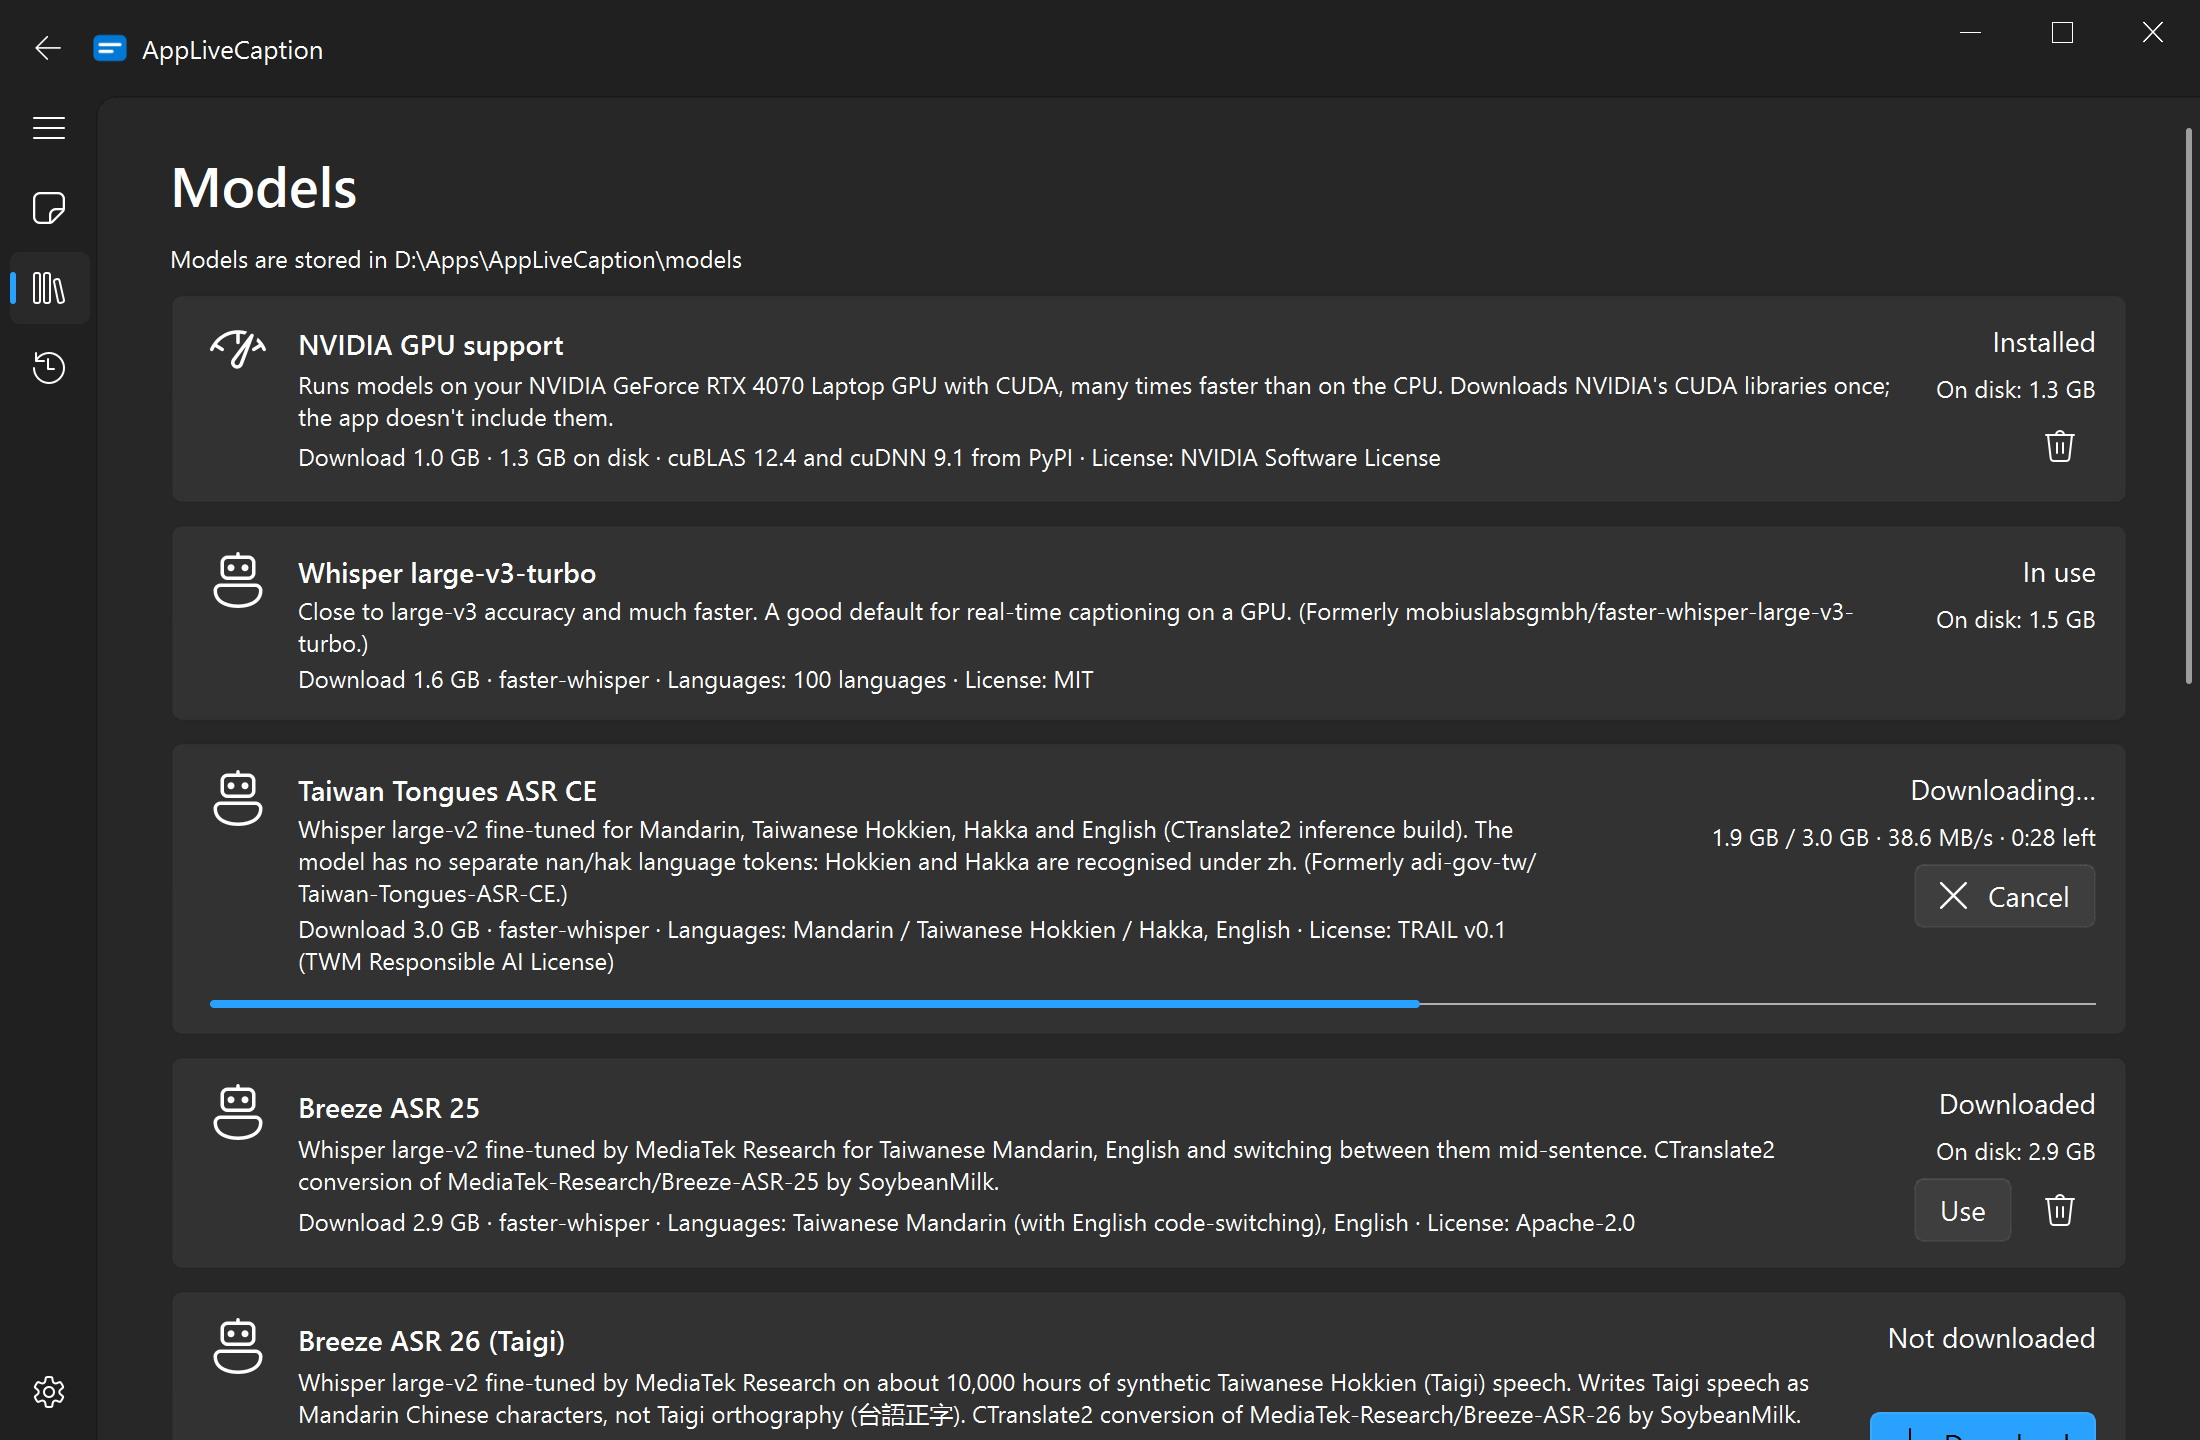
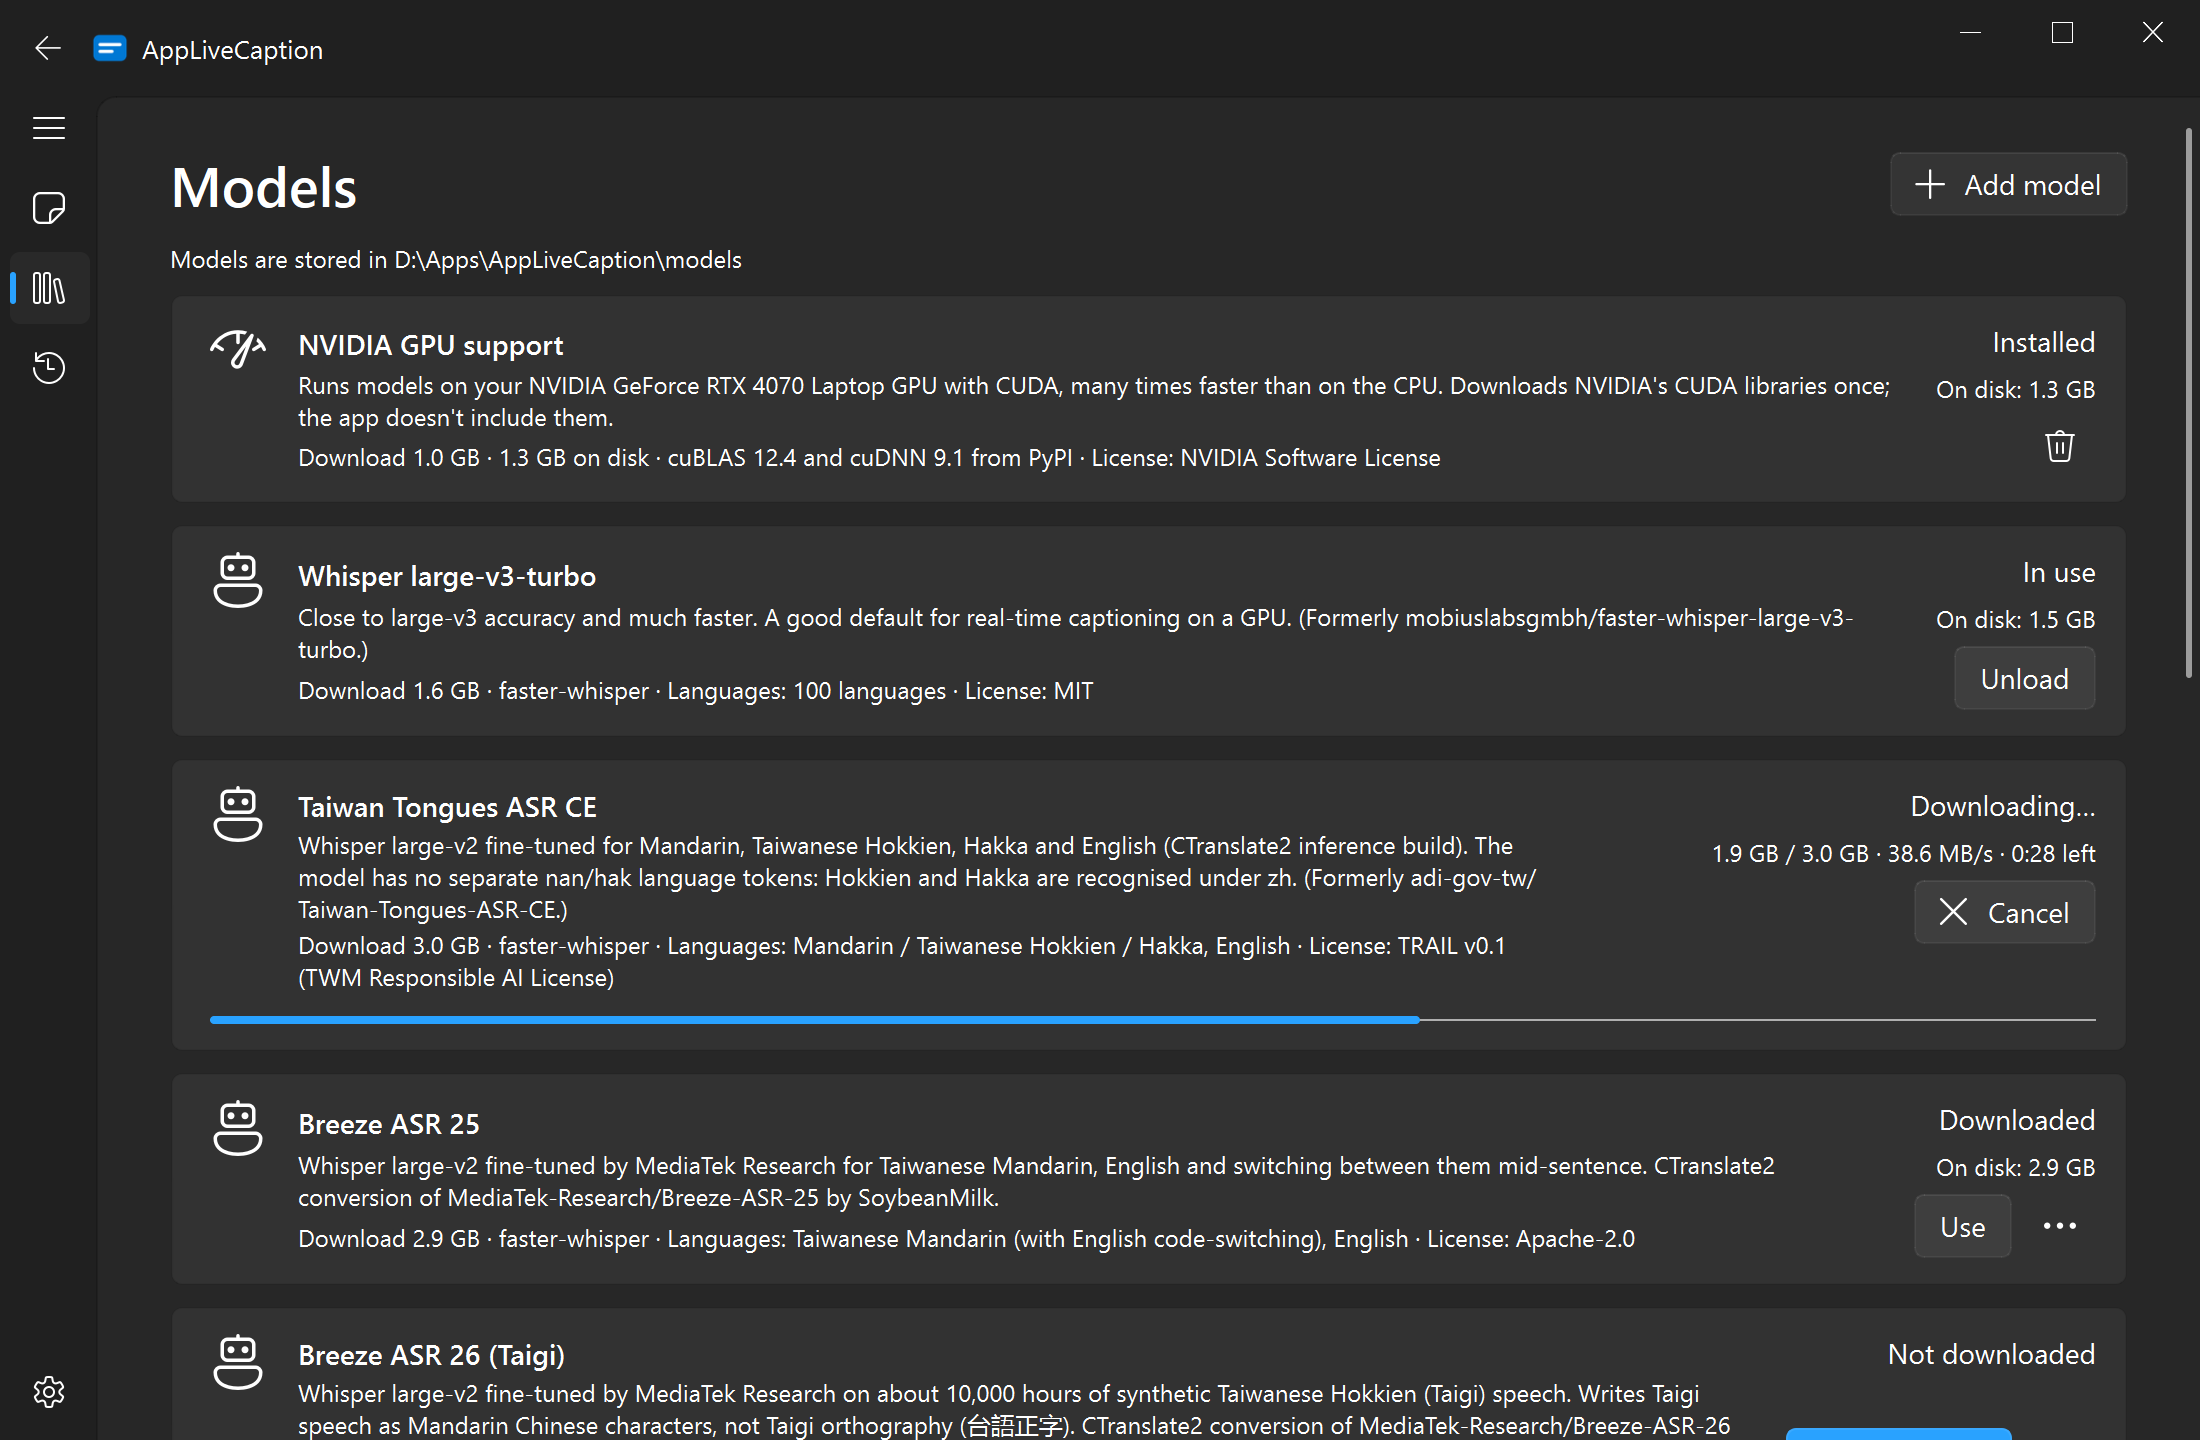
docs: update the README, website and screenshot for the new features
Catch up the docs with the installer, first-time setup and model
management:

- README: add the install-or-portable feature, say first-time setup
  suggests the model and offers GPU support and downloads, say where to
  find the cuda folder in an installed copy, and list the new folders
  and the installed data location in the project layout.
- Website: mention adding your own models, first-time setup in the steps
  and the GPU section, and rename the model card from "the default" to
  "the pick for an NVIDIA GPU".
- Replace the Models page screenshot.

Fix the missing-packages check in AppLiveCaption.pyw: it named OpenCC
as the package to install for opencc, but requirements.txt uses
opencc-python-reimplemented (the two overwrite each other's files). Drop
its outdated note that PyTorch and transformers are optional.

diff --git a/site/index.html b/site/index.html
@@ -218,7 +218,7 @@
         <div class="tab-panel" role="tabpanel" id="panel-models" aria-labelledby="tab-models" tabindex="0" hidden>
           <img class="shot" src="img/screenshot-models.png" width="2200" height="1440" loading="lazy"
                alt="The Models page with GPU support installed, a model in use and another one downloading">
-          <p class="tab-caption">Download models with one click, see how much space they take, and turn on GPU support.</p>
+          <p class="tab-caption">Download models with one click, add your own, see how much space they take, and turn on GPU support.</p>
         </div>
         <div class="tab-panel" role="tabpanel" id="panel-history" aria-labelledby="tab-history" tabindex="0" hidden>
           <img class="shot" src="img/screenshot-history.png" width="2200" height="1440" loading="lazy"
@@ -246,7 +246,7 @@
           <span class="step-number">2</span>
           <svg class="icon step-icon"><use href="#i-brain"/></svg>
           <h3>Pick a model</h3>
-          <p>Choose one in the Model dropdown and download it from the Models page.</p>
+          <p>A short first-time setup suggests a model that's fast enough for your PC, downloads it, and offers GPU support if your NVIDIA GPU needs it.</p>
         </li>
         <li class="card step reveal">
           <span class="step-number">3</span>
@@ -273,7 +273,7 @@
       <div class="model-grid">
         <article class="card model reveal">
           <div class="model-top"><h3>Whisper large-v3-turbo</h3><span class="chip chip-brand">GPU</span></div>
-          <p class="model-use">The default, for an NVIDIA GPU with 6 GB or more</p>
+          <p class="model-use">The pick for an NVIDIA GPU with 6 GB or more</p>
           <p>Close to large-v3 accuracy and much faster: partial captions in about 0.3 s on an RTX 4070 Laptop. 100 languages.</p>
         </article>
         <article class="card model reveal">
@@ -302,8 +302,8 @@
         <div>
           <h3>Have an NVIDIA GPU?</h3>
           <p>
-            Open the Models page and click <strong>Download</strong> on the NVIDIA GPU support card (about 1 GB, once).
-            A model that's already loaded moves to the GPU as soon as it finishes. Only the display driver is needed;
+            First-time setup offers GPU support (about 1 GB, once), or click <strong>Download</strong> on the NVIDIA GPU
+            support card on the Models page. A model that's already loaded moves to the GPU as soon as it finishes. Only the display driver is needed;
             you don't have to install the CUDA Toolkit.
           </p>
         </div>
@@ -342,7 +342,7 @@
         </details>
         <details>
           <summary>Do I need a graphics card?<svg class="icon chevron"><use href="#i-chevron"/></svg></summary>
-          <p>No. Without an NVIDIA GPU, models run on the CPU; pick Whisper base or small for real time. With an NVIDIA GPU and a recent driver, download GPU support on the Models page and use the bigger models.</p>
+          <p>No. Without an NVIDIA GPU, models run on the CPU; pick Whisper base or small for real time. With an NVIDIA GPU and a recent driver, download GPU support (first-time setup offers it, or use the Models page) and use the bigger models.</p>
         </details>
         <details>
           <summary>Does it need the internet?<svg class="icon chevron"><use href="#i-chevron"/></svg></summary>

diff --git a/README.md b/README.md
@@ -51,7 +51,7 @@ By default no model is loaded when the app starts, so it doesn't take memory unt
 
 | You have | Try |
 | --- | --- |
-| An NVIDIA GPU (6 GB+) | Whisper large-v3-turbo (the default): partial captions in about 0.3 s on an RTX 4070 Laptop |
+| An NVIDIA GPU (6 GB+) | Whisper large-v3-turbo (first-time setup suggests it): partial captions in about 0.3 s on an RTX 4070 Laptop |
 | Taiwanese Mandarin, or Mandarin mixed with English | Breeze ASR 25 (GPU) |
 | Taiwanese Hokkien (Taigi) | Breeze ASR 26 (GPU) |
 | Hakka | Taiwan Tongues ASR CE (GPU) |
@@ -66,7 +66,7 @@ To use an NVIDIA GPU, the app needs NVIDIA's CUDA libraries. They're big (1.3 GB
 - Only the NVIDIA display driver is needed; you don't have to install the CUDA Toolkit.
 - The files come from NVIDIA's own packages on PyPI and are checked against SHA-256 hashes pinned in the source before anything is unpacked.
 - The card's delete button removes them again. Windows locks DLLs that are in use, so they're deleted the next time the app starts.
-- No internet on that PC? Copy the app folder (or just its `cuda` folder) from another PC.
+- No internet on that PC? Copy the `cuda` folder from another PC: it's next to `AppLiveCaption.exe` in the portable version, and in `%LOCALAPPDATA%\AppLiveCaption` in the installed one.
 
 <details markdown="1">
 <summary>Technical details</summary>
@@ -139,8 +139,8 @@ To go back to an older version, do the same with that version's zip (or, install
 
 Audio never leaves your PC. The app goes online only when you ask it to:
 
-- **Downloading a model** from Hugging Face (Models page).
-- **Downloading GPU support** from PyPI (Models page).
+- **Downloading a model** from Hugging Face (Models page or first-time setup).
+- **Downloading GPU support** from PyPI (Models page or first-time setup).
 - **Check for updates**, which asks the GitHub API for the latest release.
 
 Everything else runs offline: the app sets `HF_HUB_OFFLINE=1` at start-up and loads models from their local folders only.
@@ -240,7 +240,7 @@ python -m unittest discover -s tests
 
 ## Website
 
-The project page at <https://enderdragonep.github.io/AppLiveCaption/> lives in [site/](https://github.com/EnderDragonEP/AppLiveCaption/tree/main/site): plain HTML, CSS and JavaScript styled with [Fluent 2](https://fluent2.microsoft.design/) design tokens, with no build tools. [tools/build_site.py](https://github.com/EnderDragonEP/AppLiveCaption/blob/main/tools/build_site.py) adds the screenshots from `.asset`, the app icon and the version, and the [Pages workflow](https://github.com/EnderDragonEP/AppLiveCaption/blob/main/.github/workflows/pages.yml) deploys it on every push to `main`. The download buttons ask GitHub for the latest release, so they always point at the newest zip. To preview it:
+The project page at <https://enderdragonep.github.io/AppLiveCaption/> lives in [site/](https://github.com/EnderDragonEP/AppLiveCaption/tree/main/site): plain HTML, CSS and JavaScript styled with [Fluent 2](https://fluent2.microsoft.design/) design tokens, with no build tools. [tools/build_site.py](https://github.com/EnderDragonEP/AppLiveCaption/blob/main/tools/build_site.py) adds the screenshots from `.asset`, the app icon and the version, and the [Pages workflow](https://github.com/EnderDragonEP/AppLiveCaption/blob/main/.github/workflows/pages.yml) deploys it on every push to `main`. The download buttons ask GitHub for the latest release, so they always point at the newest installer (or the zip, for a release without one). To preview it:
 
 ```powershell
 python tools/build_site.py
@@ -302,7 +302,7 @@ The app loads `app\i18n\app_<locale>.qm` for the Windows display language automa
 ```text
 app/
   main.py              entry point (sets offline mode, theme, splash)
-  paths.py             where the app keeps its data (next to the exe)
+  paths.py             where the app keeps its data (next to the exe, or in the user's profile when installed)
   config.py            settings (qfluentwidgets QConfig)
   cli.py               console tools
   audio/               capture (PyAudioWPatch, process loopback via comtypes),
@@ -312,7 +312,10 @@ app/
                        (cuda_libs.py downloads it, cuda_setup.py finds it)
   models/              catalog, downloader, local storage
   core/                controller (worker thread) and history
-  ui/                  main window, pages, source flyout, overlay, tray
+  ui/                  main window, pages, first-time setup, dialogs, source flyout, overlay, tray
+installer/             Inno Setup script for the installer
+site/                  the project website
+tools/                 build and website helpers
 ```
 
 <details markdown="1">
